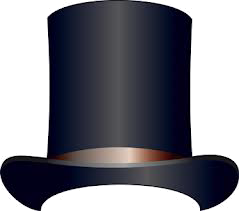
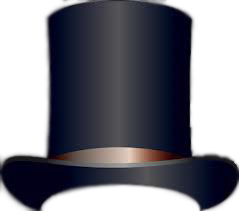
retocada la imagen del sombrero y superpuesto la accion al jugador

Changed region(s): [[0.0, 0.0, 1.0, 1.0], [0.0, 0.0, 0.4393, 0.7962]]

diff --git a/EjemploMovimientoSencilloMano/EjemploMovimientoSencilloMano/MainWindow.xaml b/EjemploMovimientoSencilloMano/EjemploMovimientoSencilloMano/MainWindow.xaml
@@ -6,6 +6,7 @@
     <Grid>
         <Image x:Name="mano" Width="640" Height="480"/>
         <Image x:Name="fondo" Width="640" Height="480"/>
-        <Image x:Name="sombrero" Width="100" Height="100" Source="images/sombrero.png" Margin="265,117,267,233" />
+        <Image x:Name="sombrero" Width="100" Height="100" Source="images/sombrero.png" Margin="-196,18,728,332" />
+        <Image x:Name="accion" Width="640" Height="480"/>
     </Grid>
 </Window>

diff --git a/EjemploMovimientoSencilloMano/EjemploMovimientoSencilloMano/MainWindow.xaml.cs b/EjemploMovimientoSencilloMano/EjemploMovimientoSencilloMano/MainWindow.xaml.cs
@@ -31,6 +31,9 @@ namespace EjemploMovimientoSencilloMano
 
         DrawingImage imageSource;
 
+        DrawingGroup fondoMarco;
+        DrawingImage imagenFondo;
+
         private const DepthImageFormat DepthFormat = DepthImageFormat.Resolution320x240Fps30;
 
         /// <summary>
@@ -116,13 +119,19 @@ namespace EjemploMovimientoSencilloMano
 
         private void windowLoad(object sender, RoutedEventArgs e)
         {
-
+            this.fondoMarco = new DrawingGroup();
+            this.imagenFondo = new DrawingImage(fondoMarco);
+            using (DrawingContext fdc = fondoMarco.Open())
+            {
+                fdc.DrawRectangle(Brushes.Black, null, new Rect(0.0, 0.0, 640, 480));
+            }
             this.drawingGroup = new DrawingGroup();
             // Crea un imageSource con el que poder pintar dentro de el
             this.imageSource = new DrawingImage(this.drawingGroup);
 
             // introducimos el valor de este en un elemento de la interfaz
-            mano.Source = this.imageSource;
+            mano.Source = this.imagenFondo;
+            accion.Source = this.imageSource;
 
             foreach (var potentialSensor in KinectSensor.KinectSensors)
             {
@@ -225,10 +234,7 @@ namespace EjemploMovimientoSencilloMano
             }
 
             using (DrawingContext dc = this.drawingGroup.Open())
-            {
-                // dibujamos un rectangulo negro para el fondo.
-                dc.DrawRectangle(Brushes.Black, null, new Rect(0.0, 0.0, 640, 480));
-                
+            {                
                 if (skeletons.Length != 0)
                 {
                     //recorremos todos los skeletos que tiene
@@ -502,13 +508,12 @@ namespace EjemploMovimientoSencilloMano
                 {
                     if (jugador1 == skel.TrackingId)
                     {
-                        InputSimulator.SimulateKeyDown(VirtualKeyCode.SPACE);
+                        InputSimulator.SimulateKeyPress(VirtualKeyCode.SPACE);
                     }
                     else if (jugador2 == skel.TrackingId)
                     {
-                        InputSimulator.SimulateKeyDown(VirtualKeyCode.VK_B);
+                        InputSimulator.SimulateKeyPress(VirtualKeyCode.VK_B);
                     }
-                    System.Console.Out.WriteLine("EEENTERR");
                     pulsadoAlante = true;
                 }
             }
